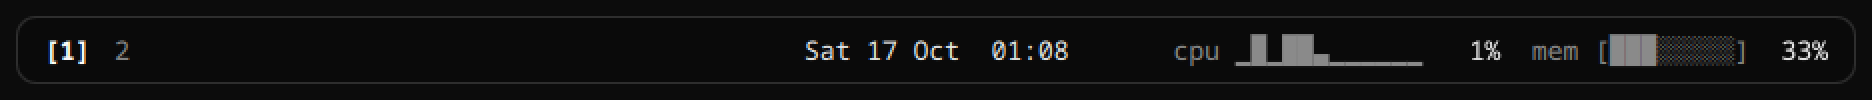
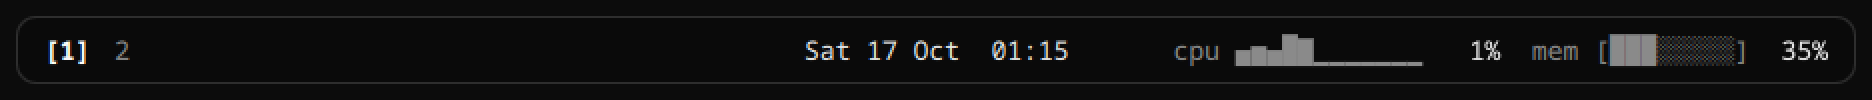
Document the palette and add a palette screenshot
screenshots.sh now also opens the palette and captures it. README gets a
command palette section, updated settings example and layout.

Changed region(s): [[0.6506, 0.33, 0.7126, 0.63], [0.5267, 0.39, 0.5887, 0.6], [0.9605, 0.42, 0.9915, 0.51]]

diff --git a/README.md b/README.md
@@ -2,7 +2,7 @@
 
 A custom, terminal-flavoured desktop shell for [niri](https://github.com/YaLTeR/niri), built on [Quickshell](https://quickshell.org/) (QML).
 
-> Work in progress. Currently a working skeleton with a monochrome theme.
+> Work in progress. Currently a working skeleton with a monochrome theme, a TUI-style bar and a command palette.
 
 ## Preview
 
@@ -11,6 +11,10 @@ The top bar: workspaces on the left, clock in the center, media player (shown wh
 ![Top bar](docs/screenshots/bar.png)
 
 ![Desktop](docs/screenshots/desktop.png)
+
+The command palette (`Mod+;`): plain text launches apps, `:` starts a command.
+
+![Command palette](docs/screenshots/palette.png)
 
 <sub>Screenshots are generated by `dev/screenshots.sh` and refreshed after every finished piece of work.</sub>
 
@@ -36,6 +40,21 @@ writes `~/.config/niri/vibeshell.kdl` and tells you which `include` line to add.
 
 Try it without restarting niri: `quickshell -p ~/.local/share/vibeshell/shell`
 
+## Command palette
+
+Press `Mod+;` (bound by the installer's niri snippet). Type to search applications, or start with `:` for commands:
+
+| Command | What it does |
+|---|---|
+| `:ws <n>` | focus workspace n |
+| `:set <key> <value>` | change a setting live and save it, e.g. `:set bar.gap 12` |
+| `:term` | open a terminal |
+| `:reload` | reload the shell |
+
+`Enter` runs, `Tab` completes, `Up`/`Down` (or `Ctrl+P`/`Ctrl+N`) move, `Esc` closes.
+It can also be driven from a script: `quickshell ipc -p <shell dir> call palette open ":"`
+or `... call palette run ":ws 2"`.
+
 ## Settings
 
 User settings live in `~/.config/vibeshell/settings.json` and override
@@ -45,6 +64,8 @@ User settings live in `~/.config/vibeshell/settings.json` and override
 {
   "theme": { "palette": "monochrome" },
   "font": { "family": "JetBrainsMono Nerd Font", "size": 13 },
+  "apps": { "terminal": "kitty" },
+  "stats": { "interval": 2000 },
   "bar": { "height": 34, "gap": 8, "radius": 10, "borderWidth": 1 }
 }
 ```
@@ -65,6 +86,8 @@ redirected to `/tmp/vibeshell-dev`, so your real config is never touched.
 install.sh   Installer
 shell/       Quickshell config (entry point: shell/shell.qml)
   bar/       Bar and its modules
+  palette/   Command palette (UI and command backend)
+  components/ Reusable pieces: TuiFrame, Spark, Gauge, Txt
   services/  niri workspaces, system stats
   palettes/  Color palettes
   defaults/  Shipped default settings
@@ -76,6 +99,8 @@ docs/        Screenshots used in this README
 
 - [x] Skeleton: settings, theme, top bar (workspaces, clock, media, stats)
 - [x] Installer
+- [x] TUI building blocks: character-cell frames, sparklines, gauges
+- [x] Vim-style command palette (apps + commands)
 - [ ] Settings window
 - [ ] Color palettes, switchable at runtime
 - [ ] Launcher, notifications, OSD, quick settings, lock screen, greeter
